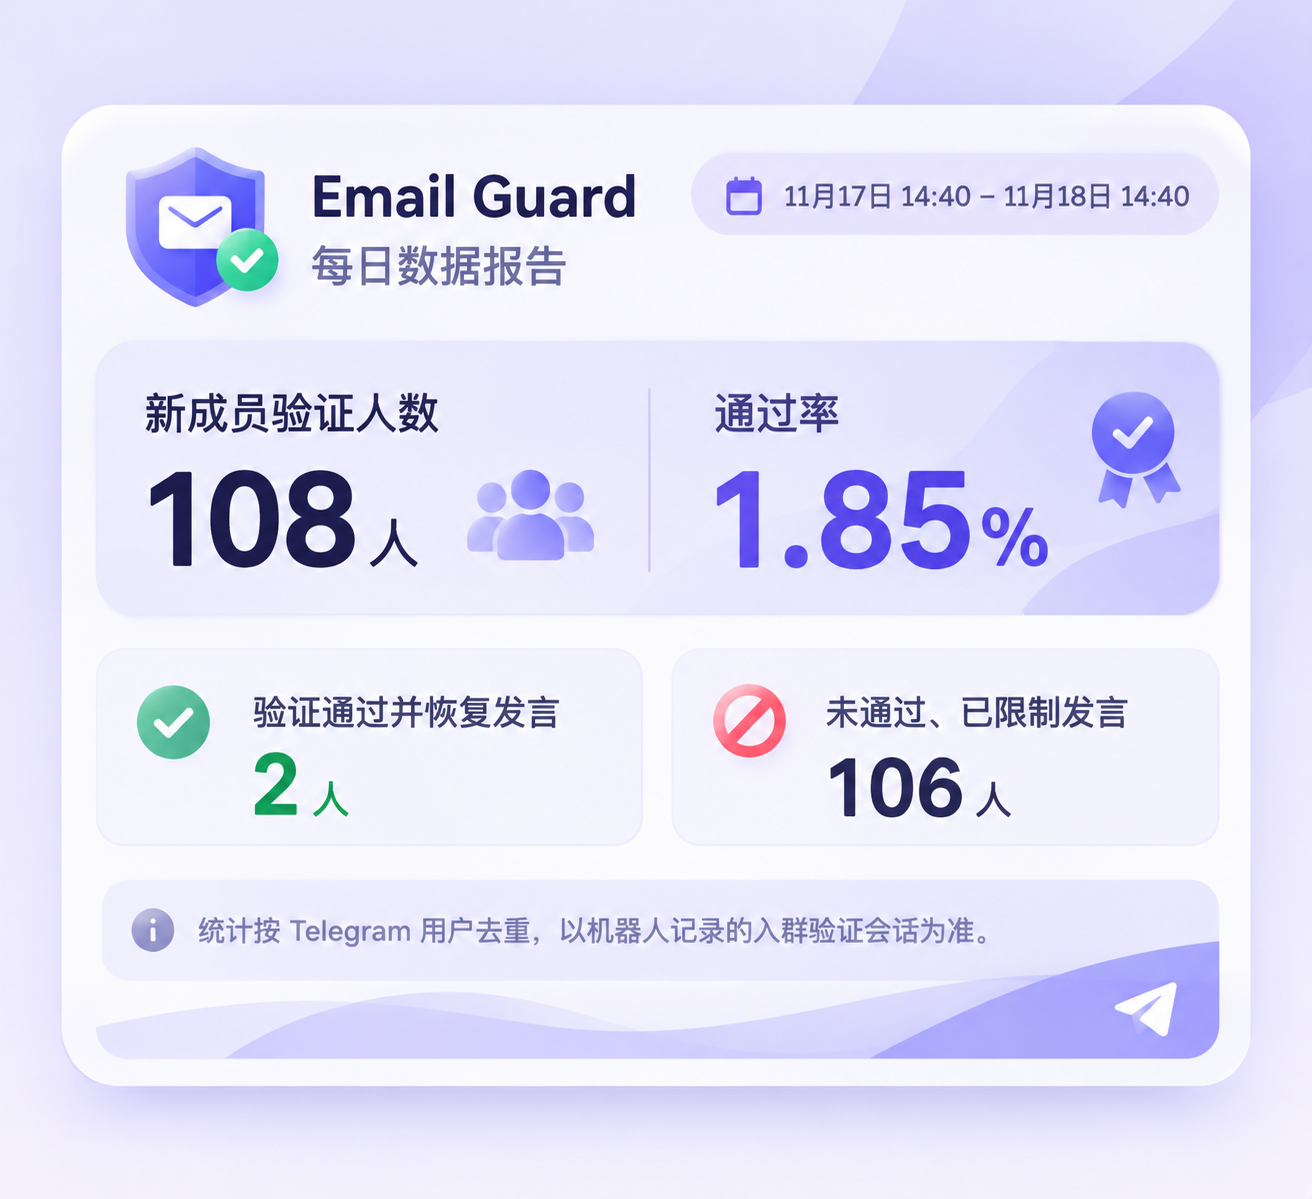
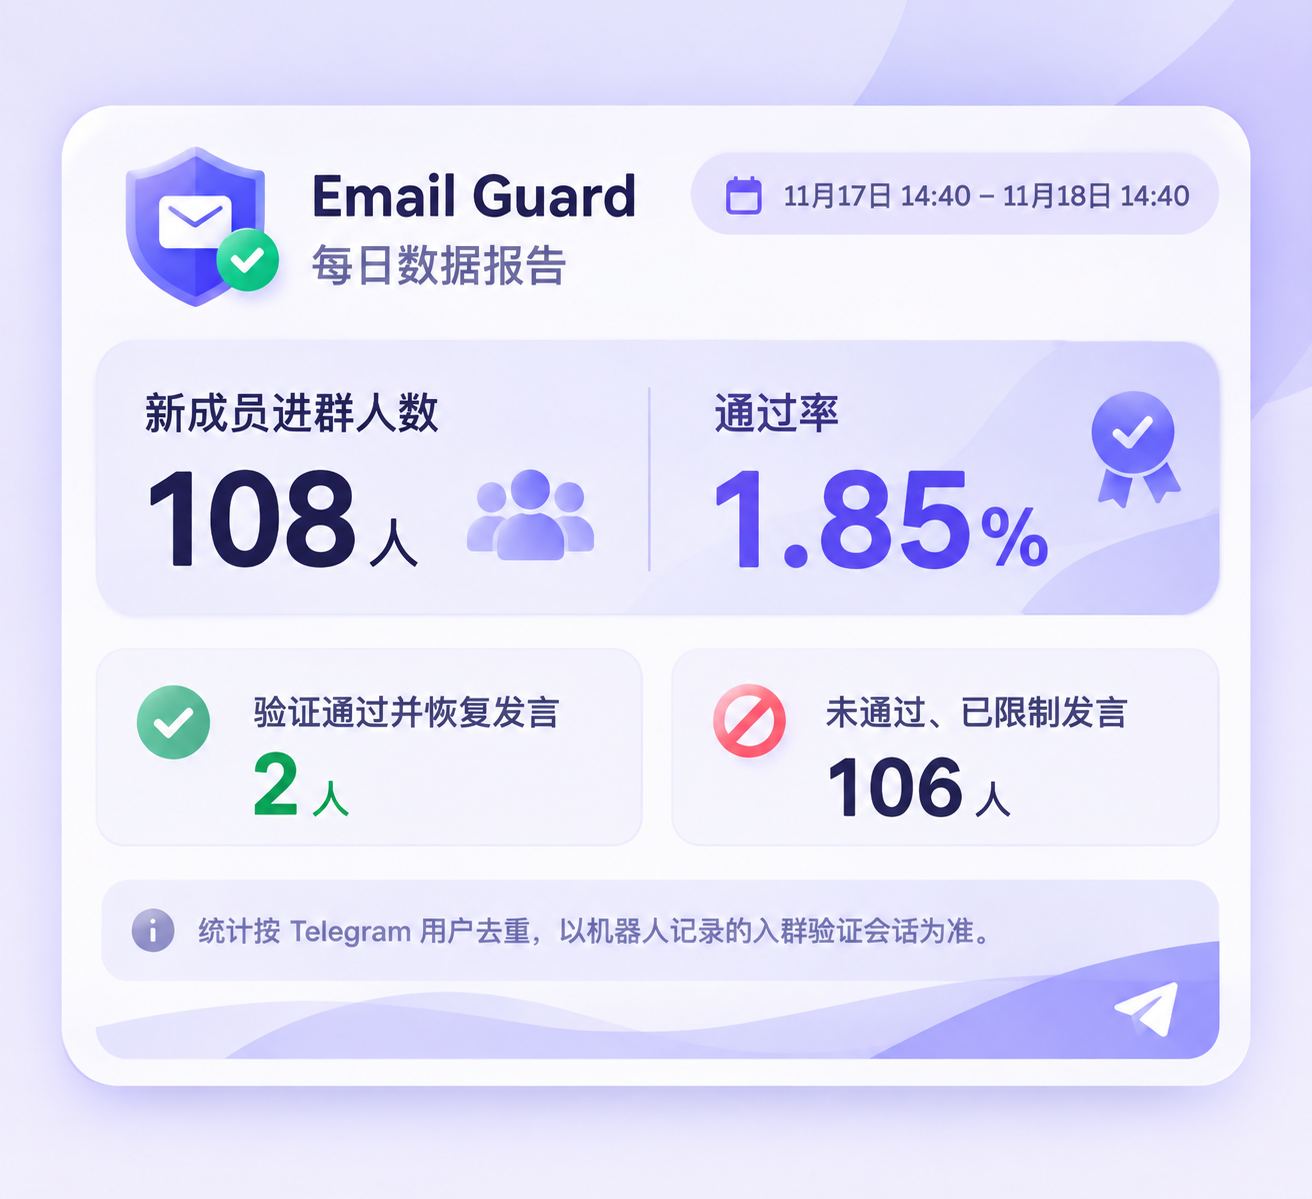
design: 日报卡片复刻与动态渲染验收 / reusable report card and visual fixtures

diff --git a/deploy/reports/render.py b/deploy/reports/render.py
@@ -1,35 +1,118 @@
+"""Deterministic, supersampled daily-report artwork. No reference bitmap reuse."""
 import json, sys, math
 from datetime import datetime, timedelta
-from PIL import Image, ImageDraw, ImageFont
-s=json.load(open(sys.argv[1],encoding='utf-8'))
-W,H=1320,1200
-im=Image.new('RGB',(W,H)); p=im.load()
-for y in range(H):
- for x in range(W):
-  a=(math.sin(x/W*3+y/H*2)+1)/2
-  p[x,y]=(int(239-16*a),int(237-19*a),255)
-d=ImageDraw.Draw(im)
-font='/usr/share/fonts/opentype/noto/NotoSansCJK-Regular.ttc'
-def text(x,y,t,size=30,color='#252452'):
- d.text((x,y),str(t),font=ImageFont.truetype(font,size),fill=color)
-def card(box,fill='#FFFFFF',radius=42): d.rounded_rectangle(box,radius,fill=fill)
-def tick(x,y,color):
- d.ellipse((x,y,x+74,y+74),fill=color);d.line([(x+20,y+38),(x+32,y+50),(x+56,y+24)],fill='white',width=9)
-def date(v):return (datetime.fromisoformat(v.replace('Z','+00:00'))+timedelta(hours=8)).strftime('%m月%d日 %H:%M')
-card((56,100,1264,1100))
-# Shield, envelope and confirmation icon
-points=[(126,175),(192,146),(258,175),(250,257),(192,298),(134,257)]
-d.polygon(points,fill='#7164F8');card((157,193,226,242),'#FFFFFF',10);d.line([(160,200),(192,220),(223,200)],fill='#7164F8',width=4);tick(216,239,'#25C995')
-text(310,150,'Email Guard',62);text(310,240,'每日数据报告',43,'#7370A7')
-card((694,150,1220,221),'#EFEDFF',35);text(718,166,date(s['start'])+' – '+date(s['end']),23,'#605B99')
-card((94,352,1226,626),'#EFEDFF');d.line((650,392,650,584),fill='#D5CFFF',width=2)
-text(140,390,'新成员验证人数',38);text(140,444,s['total'],112);text(440,523,'人',40)
-text(708,390,'通过率',38,'#4B438F');rate=f"{100*s['passed']/s['total']:.2f}" if s['total'] else '0.00';text(700,444,rate+'%',102,'#6650ED')
-card((94,662,644,866),'#F6F5FE',30);card((674,662,1226,866),'#F6F5FE',30)
-tick(128,704,'#26BC91');text(226,700,'验证通过并恢复发言',28);text(226,744,s['passed'],76,'#14A570')
-d.ellipse((708,704,782,778),fill='#F57194');d.line((724,762,766,720),fill='white',width=9)
-text(802,700,'未通过、已限制发言',28);text(802,744,s['restricted'],76)
-pending=s['total']-s['passed']-s['restricted'];text(114,896,f'仍在验证 / 恢复权限中：{pending} 人',26,'#7770A4')
-card((94,952,1226,1054),'#EFEDFF',28);text(124,975,'按 Telegram 用户去重 · 以机器人记录的入群验证会话为准',27,'#7973AD')
-text(104,1061,'ASIA/SHANGHAI · 过去 24 小时 / LAST 24 HOURS',18,'#8F88BA')
-im.save(sys.argv[2])
+from zoneinfo import ZoneInfo
+from PIL import Image, ImageDraw, ImageFont, ImageFilter
+def normalize_report(raw):
+ def count(name,legacy):
+  value=raw.get(name,raw.get(legacy))
+  if isinstance(value,bool) or not isinstance(value,int) or value<0: raise ValueError(name+' must be a nonnegative integer')
+  return value
+ total=count('total_users','total');passed=count('passed_users','passed');restricted=count('restricted_users','restricted')
+ if passed+restricted>total: raise ValueError('Category counts exceed total')
+ rate=round(100*passed/total,2) if total else 0.0
+ if 'pass_rate' in raw and abs(float(str(raw['pass_rate']).rstrip('%'))-rate)>0.005: raise ValueError('Inconsistent pass_rate')
+ start=raw.get('report_start',raw.get('start'));end=raw.get('report_end',raw.get('end'))
+ for value in [start,end]:
+  dt=datetime.fromisoformat(value.replace('Z','+00:00'))
+  if dt.tzinfo is None: raise ValueError('Timezone offset is required')
+ return dict(total=total,passed=passed,restricted=restricted,start=start,end=end)
+
+def render_report(raw,output):
+ s=normalize_report(raw)
+ _draw_report(s,output)
+
+def _draw_report(s,output):
+ W,H,S=1320,1200,2
+ im=Image.new('RGB',(W*S,H*S)); bg=Image.new('RGB',(W,H));px=bg.load()
+ for y in range(H):
+  for x in range(W):
+   a=(math.sin(x/W*3+y/H*2)+1)/2
+   px[x,y]=(int(246-18*a),int(244-20*a),255)
+ im=bg.resize((W*S,H*S));d=ImageDraw.Draw(im)
+ # Low-contrast abstract arcs in the background.
+ d.ellipse((850*S,-410*S,1450*S,440*S),fill='#DDD8FF')
+ d.ellipse((810*S,-410*S,1330*S,290*S),fill='#E9E5FF')
+ regular='/usr/share/fonts/opentype/noto/NotoSansCJK-Regular.ttc'
+ bold='/usr/share/fonts/opentype/noto/NotoSansCJK-Bold.ttc'
+ def font(size,heavy=True):return ImageFont.truetype(bold if heavy else regular,round(size*S),index=2)
+ def text(x,y,t,size=30,color='#252452',heavy=True):
+  # One Chinese face, fixed top anchor and no mixed-font baseline fallback.
+  d.text((x*S,y*S),str(t),font=font(size,heavy),fill=color,anchor='lt')
+ def width(t,size,heavy=True):return d.textlength(str(t),font=font(size,heavy))/S
+ def card(box,fill='#FFFFFF',radius=42,outline=None):d.rounded_rectangle(tuple(int(v*S) for v in box),radius*S,fill=fill,outline=outline,width=2*S)
+ def gradient_card(box,top,bottom,radius=42):
+  layer=Image.new('RGBA',im.size);ld=ImageDraw.Draw(layer)
+  from PIL import ImageColor
+  a=ImageColor.getrgb(top);b=ImageColor.getrgb(bottom)
+  x1,y1,x2,y2=[int(v*S) for v in box]
+  for yy in range(y1,y2+1):
+   t=(yy-y1)/max(1,y2-y1);c=tuple(round(a[i]*(1-t)+b[i]*t) for i in range(3))
+   ld.line((x1,yy,x2,yy),fill=c,width=1)
+  mask=Image.new('L',im.size);ImageDraw.Draw(mask).rounded_rectangle((x1,y1,x2,y2),radius*S,fill=255)
+  im.alpha_composite(Image.composite(layer,Image.new('RGBA',im.size),mask))
+ def line(points,fill,width=2):d.line([(x*S,y*S) for x,y in points],fill=fill,width=width*S)
+ def ellipse(box,fill):d.ellipse(tuple(int(v*S) for v in box),fill=fill)
+ def poly(points,fill):d.polygon([(int(x*S),int(y*S)) for x,y in points],fill=fill)
+ def tick(x,y,color,r=74):
+  ellipse((x,y,x+r,y+r),color);ellipse((x+7,y+5,x+r-7,y+r-9),color);line([(x+r*.27,y+r*.51),(x+r*.44,y+r*.67),(x+r*.76,y+r*.32)],'white',9)
+ def date(v):return datetime.fromisoformat(v.replace('Z','+00:00')).astimezone(ZoneInfo('Asia/Shanghai')).strftime('%m月%d日 %H:%M')
+ # Soft card shadow and pale architectural waves.
+ shadow=Image.new('RGBA',im.size);sd=ImageDraw.Draw(shadow);sd.rounded_rectangle((62*S,116*S,1258*S,1101*S),58*S,fill=(93,72,181,40));shadow=shadow.filter(ImageFilter.GaussianBlur(22*S));im=Image.alpha_composite(im.convert('RGBA'),shadow);d=ImageDraw.Draw(im)
+ card((60,104,1260,1090),'#FFFFFF',56)
+ gradient_card((94,342,1226,616),'#F2F0FF','#E3DFFF',42)
+ # clipped decorative gradients inside panels
+ layer=Image.new('RGBA',im.size);ld=ImageDraw.Draw(layer)
+ ld.polygon([(800*S,616*S),(1226*S,480*S),(1226*S,616*S)],fill='#D4CEFF')
+ mask=Image.new('L',im.size);ImageDraw.Draw(mask).rounded_rectangle((94*S,342*S,1226*S,616*S),42*S,fill=255);layer.putalpha(Image.eval(layer.getchannel('A'),lambda p:p));im.alpha_composite(Image.composite(layer,Image.new('RGBA',im.size),mask));d=ImageDraw.Draw(im)
+ # Layered shield and envelope.
+ poly([(126,174),(194,146),(264,174),(258,254),(235,285),(194,310),(152,282),(130,250)],'#B9B2FF')
+ poly([(138,180),(194,159),(251,181),(246,248),(226,275),(194,294),(160,271),(142,244)],'#7564F6')
+ poly([(194,159),(251,181),(246,248),(226,275),(194,294)],'#6151EF')
+ card((158,196,229,248),'#FFFFFF',11);line([(164,207),(194,226),(222,207)],'#7564F6',4);tick(218,232,'#21C99A',66)
+ text(310,171,'Email Guard',57);text(310,246,'每日数据报告',42,'#7670A6')
+ card((694,153,1226,237),'#EFEDFF',42)
+ card((729,181,758,213),'#7964EF',4);card((733,189,754,209),'#EFEDFF',1);line([(736,178),(736,186)],'#7964EF',4);line([(751,178),(751,186)],'#7964EF',4)
+ period=date(s['start'])+' – '+date(s['end']);size=25
+ while width(period,size)>428:size-=1
+ text(783,182,period,size,'#625B9E')
+ line([(650,390),(650,573)],'#D0C9FF',2)
+ text(143,395,'新成员进群人数',38);text(713,395,'通过率',38,'#4A438C')
+ value=str(s['total']);size=120
+ while width(value,size)>260:size-=1
+ text(140,468,value,size);text(140+width(value,size)+12,535,'人',42)
+ rate=f"{100*s['passed']/s['total']:.2f}" if s['total'] else '0.00';size=118
+ while width(rate+'%',size)>385:size-=1
+ text(705,468,rate+'%',size,'#6347F3')
+ # Group silhouette.
+ for x,y,r in [(478,487,15),(516,475,20),(558,487,15)]:ellipse((x,y,x+2*r,y+2*r),'#ADA1FF')
+ card((466,519,512,554),'#B8AEFF',14);card((548,519,594,554),'#B8AEFF',14);card((497,516,563,565),'#A294FF',22)
+ # Purple medal.
+ ellipse((1094,394,1177,477),'#8B77FF');poly([(1107,464),(1140,473),(1127,511),(1113,502),(1101,507)],'#A292FF');poly([(1143,471),(1166,462),(1182,496),(1167,495),(1158,507)],'#A292FF');line([(1118,435),(1131,447),(1154,419)],'white',8)
+ card((94,650,644,849),'#F8F7FE',30,'#EFEDFF');card((674,650,1226,849),'#F8F7FE',30,'#EFEDFF')
+ tick(136,689,'#38BB97')
+ # Both labels use the same top anchor, font face, size and row coordinates.
+ text(250,699,'验证通过并恢复发言',31)
+ nsize=76
+ while width(s['passed'],nsize)>280:nsize-=1
+ text(250,754,s['passed'],nsize,'#10A775');text(250+width(s['passed'],nsize)+12,785,'人',34,'#10A775')
+ ellipse((714,689,788,763),'#FB829F');line([(730,747),(770,707)],'white',10)
+ text(826,699,'未通过、已限制发言',31)
+ nsize=76
+ while width(s['restricted'],nsize)>280:nsize-=1
+ text(826,754,s['restricted'],nsize);text(826+width(s['restricted'],nsize)+12,785,'人',34)
+ pending=s['total']-s['passed']-s['restricted']
+ if pending: text(110,865,f'仍在验证 / 恢复权限中：{pending} 人',22,'#8580AD',False)
+ card((98,888,1226,990),'#EFEDFF',30)
+ ellipse((130,917,174,961),'#A39BCD');text(147,923,'i',28,'white')
+ text(197,927,'统计按 Telegram 用户去重，以机器人记录的入群验证会话为准。',25,'#8079AD')
+ wave=[(94,1062)]+[(x,1029+25*math.sin((x-94)/1132*math.pi*2)) for x in range(94,1227,4)]+[(1226,1062)]
+ poly(wave,'#E0DAFF')
+ wave=[(500,1062)]+[(x,1056-66*((x-500)/726)**2) for x in range(500,1227,4)]+[(1226,1062)]
+ poly(wave,'#B3A5FF')
+ poly([(1120,1030),(1181,1008),(1169,1060),(1152,1040),(1139,1051),(1141,1034)],'#FFFFFF')
+ im.convert('RGB').resize((1280,1170),Image.Resampling.LANCZOS).save(output)
+ 
+
+if __name__ == "__main__":
+ render_report(json.load(open(sys.argv[1],encoding="utf-8")),sys.argv[2])

diff --git a/deploy/reports/test_render.py b/deploy/reports/test_render.py
@@ -1,0 +1,17 @@
+import json, pathlib, unittest, importlib.util
+from PIL import Image
+spec=importlib.util.spec_from_file_location('card',pathlib.Path(__file__).with_name('render.py'));card=importlib.util.module_from_spec(spec);spec.loader.exec_module(card)
+base=dict(report_start='2026-11-17T14:40:00+08:00',report_end='2026-11-18T14:40:00+08:00')
+out=pathlib.Path('/tmp/email-guard-design-review');out.mkdir(exist_ok=True)
+class Tests(unittest.TestCase):
+ def test_dynamic_images(self):
+  for name,total,passed in [('sample',108,2),('zero',0,0),('three-digit',999,123),('four-digit',9999,2345)]:
+   data=dict(base,total_users=total,passed_users=passed,restricted_users=total-passed)
+   card.render_report(data,out/(name+'.png'))
+   with Image.open(out/(name+'.png')) as im:self.assertEqual(im.size,(1280,1170));self.assertEqual(im.mode,'RGB')
+ def test_validation(self):
+  for counts in [dict(total_users=1,passed_users=2,restricted_users=0),dict(total_users=1.5,passed_users=0,restricted_users=0),dict(total_users=0,passed_users=0,restricted_users=0,pass_rate=1)]:
+   with self.assertRaises(ValueError):card.normalize_report(dict(base,**counts))
+ def test_timezone(self):
+  a=card.normalize_report(dict(base,total_users=108,passed_users=2,restricted_users=106,pass_rate=1.85));self.assertEqual(a['total'],108)
+if __name__=='__main__':unittest.main()

diff --git a/docs/design/reports/README.md b/docs/design/reports/README.md
@@ -1,0 +1,44 @@
+# 每日报告卡片组件 · Report card component
+
+## 实现 / Implementation
+
+复用 VPS 已安装的 Pillow + Noto Sans CJK，不新增浏览器或第三方依赖。组件位于 `deploy/reports/render.py`，`render_report(data, output)` 接收数据，内部统一字体、顶部锚点、固定几何布局，2倍分辨率绘制后抗锯齿输出 **1280×1170 RGB PNG**。图形、渐变、波浪和图标全部程序绘制，没有读取参考位图。参考图仅用于视觉比较。
+
+Reuses the existing Pillow renderer and Noto CJK font. Layout is separate from normalization. Deterministic supersampling produces an opaque 1280×1170 PNG without reference-image compositing or daily AI generation.
+
+## 数据接口 / Data interface
+
+```json
+{
+  "report_start": "2026-11-17T14:40:00+08:00",
+  "report_end": "2026-11-18T14:40:00+08:00",
+  "total_users": 108,
+  "passed_users": 2,
+  "restricted_users": 106,
+  "pass_rate": 1.85
+}
+```
+
+人数必须为非负整数，比例由人数计算；传入 pass_rate 时必须一致。零人数为 0.00%。时间必须带时区，以 Asia/Shanghai 显示。兼容现有数据库输出字段 start/end/total/passed/restricted，不修改查询、数据库或验证流程。
+
+Counts must be nonnegative integers. Rate is computed and optional supplied rate must match. Dates require timezone offsets. Legacy snapshot fields remain supported, so no query/database changes are required.
+
+**口径差异：现有统计允许仍待验证的人，因此 passed+restricted 可以小于 total。** 不能将这些人算为已限制。组件在存在差额时显示待完成人数；无差额时隐藏，示例满足108=2+106。超过总人数则拒绝渲染。这个处理保留现有统计逻辑，不宣称新成员覆盖机器人未记录的入群事件。
+
+Existing queries can include pending users. The component shows the pending difference rather than misclassifying them as restricted. Over-counts are rejected. This preserves current statistics and covers only recorded join sessions.
+
+## 集成 / Integration
+
+`deploy/reports/run.sh` 沿用现有16:00 systemd timer和Bot目标：prepare → render.py → send。每次使用独立临时目录，退出时清理本次 JSON/PNG 及容器临时文件；--preview 另保留 report-preview.png。失败会让任务非零退出，由 systemd journal记录。发送继续无 caption、防重复。
+
+Existing scheduler and sendPhoto pipeline are preserved. Cleanup traps remove transient files, including on failure. Nonzero errors are recorded by systemd. Image-only delivery and deduplication remain unchanged.
+
+## 验收 / Validation
+
+- 示例108/2/106、零人数、999/123/876、9999/2345/7654已在VPS临时目录实际渲染。
+- 三项 Python 测试覆盖动态输出尺寸/不透明RGB、非法计数/比例拒绝、带时区输入；现有Node测试独立运行。
+- sample.png 为要求的示例，comparison.png为归一化参考图与结果并排，overlay.png为50%叠加。参考原图1312×1199，按要求归一到1280×1170再比较。
+- 已检查中文统一字重和基线、长数字自适应字号、边界留白；可见差异仍有图标的3D质感与柔和光影，程序绘制未声称逐像素相同。
+- 现有Bot已真实发送日报并获用户确认。本版只在临时目录生成预览，等待用户视觉确认后再切换生产模板/替换消息；未将渲染测试当成新版发送验收。
+
+Real PNG fixtures, side-by-side and overlay comparisons are included. Remaining differences include 3D icon shading and subtle lighting. This version is staged for owner review, not yet switched into production or sent to the group.
